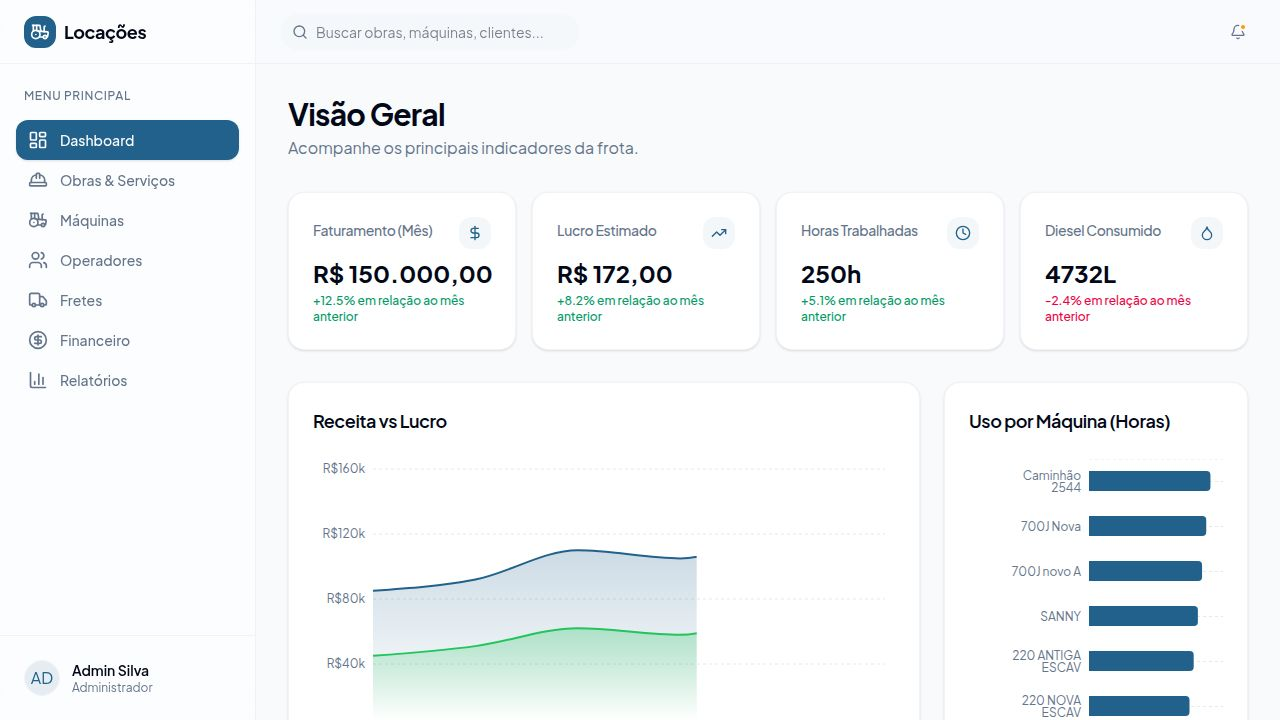
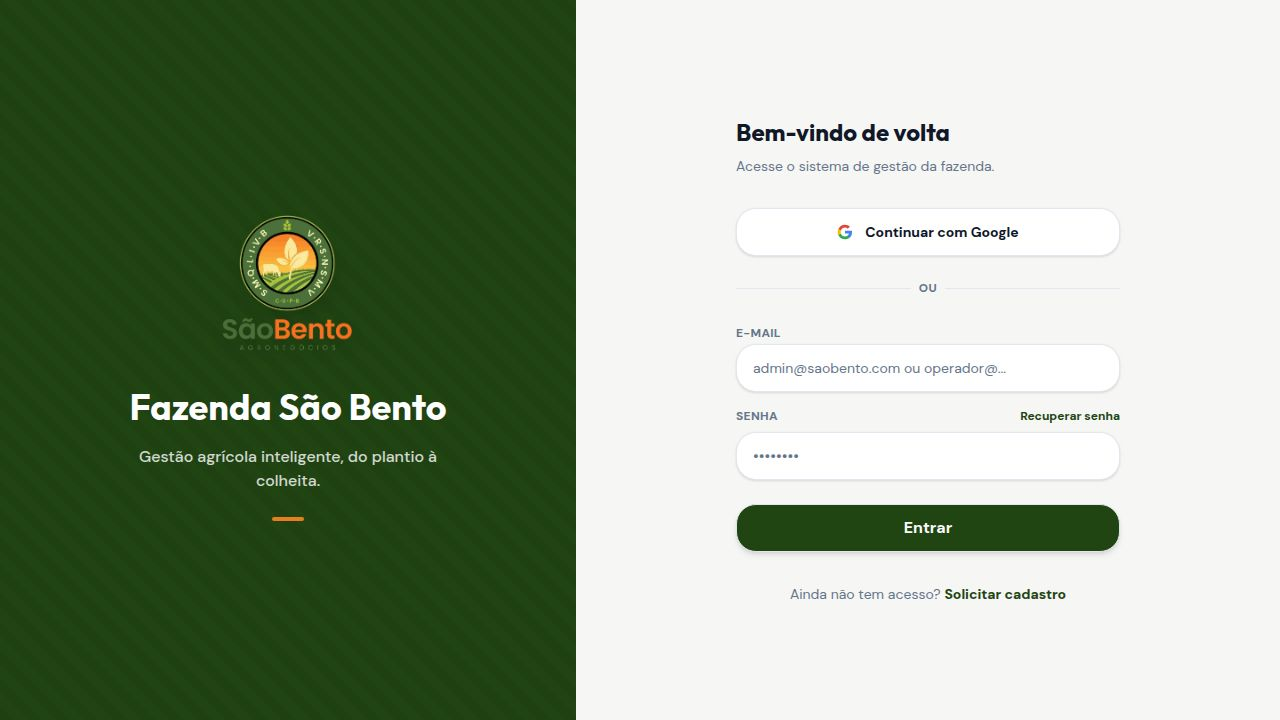
Update application layout and navigation to match new visual identity
Remove the profile page and refactor the sidebar and mobile navigation menus to adhere to the new design system, including updated icons, structure, and styling.

Replit-Commit-Author: Agent
Replit-Commit-Session-Id: a1e8617d-707e-435c-a812-cf1572383044
Replit-Commit-Checkpoint-Type: full_checkpoint
Replit-Commit-Event-Id: d5b62594-970b-4346-b0ed-bee79c32bd19
Replit-Commit-Screenshot-Url: https://storage.googleapis.com/screenshot-production-us-central1/9e8b72b2-3de3-485b-a8b9-97ff657279ff/a1e8617d-707e-435c-a812-cf1572383044/fkUxBok
Replit-Helium-Checkpoint-Created: true

diff --git a/client/src/components/layout/AppLayout.tsx b/client/src/components/layout/AppLayout.tsx
@@ -2,8 +2,8 @@ import { ReactNode, useState, useEffect } from "react";
 import { Link, useLocation } from "wouter";
 import { motion } from "framer-motion";
 import {
-  LayoutDashboard, Users, Tractor, Wheat, Package,
-  Truck, Fuel, Settings, Menu, Bell, ShieldAlert, DollarSign, FileText, Pickaxe
+  Home, Users, Tractor,
+  Truck, Menu, Bell, Droplet, Package, Wheat, LogOut
 } from "lucide-react";
 import { Avatar, AvatarFallback } from "@/components/ui/avatar";
 import { Button } from "@/components/ui/button";
@@ -14,16 +14,17 @@ interface AppLayoutProps {
 }
 
 const mainNavItems = [
-  { name: "Início", href: "/", icon: LayoutDashboard },
-  { name: "Obras & Serv", href: "/servicos", icon: Pickaxe },
+  { name: "Dashboard", href: "/", icon: Home },
+  { name: "Colheita", href: "/servicos", icon: Wheat },
+  { name: "Transporte", href: "/fretes", icon: Truck },
   { name: "Máquinas", href: "/maquinas", icon: Tractor },
-  { name: "Fretes", href: "/fretes", icon: Truck },
+  { name: "Abastecimento", href: "/financeiro", icon: Droplet },
+  { name: "Estoque", href: "/relatorios", icon: Package },
 ];
 
 const secondaryNavItems = [
-  { name: "Operadores", href: "/operadores", icon: Users },
-  { name: "Financeiro", href: "/financeiro", icon: DollarSign },
-  { name: "Relatórios", href: "/relatorios", icon: FileText },
+  { name: "Caminhões", href: "/caminhoes", icon: Truck },
+  { name: "Usuários", href: "/operadores", icon: Users },
 ];
 
 export default function AppLayout({ children }: AppLayoutProps) {
@@ -55,30 +56,34 @@ export default function AppLayout({ children }: AppLayoutProps) {
   };
 
   return (
-    <div className="flex h-screen w-full bg-background overflow-hidden font-sans">
+    <div className="flex h-screen w-full bg-[#f8f9fa] overflow-hidden font-sans">
       {/* Sidebar (Desktop) */}
-      <aside className="hidden sm:flex w-64 flex-col border-r border-border bg-card">
-        <div className="h-16 flex items-center px-6 border-b border-border">
+      <aside className="hidden sm:flex w-64 flex-col bg-[#1b431e] text-white">
+        <div className="h-20 flex items-center px-6 pt-4">
           <div className="flex items-center gap-3">
-            <img src="/logo.png" alt="Logo Fazenda São Bento" className="w-8 h-8 object-contain" />
-            <span className="font-bold text-lg font-display tracking-tight text-foreground">São Bento</span>
+            <img src="/logo.png" alt="Logo Fazenda São Bento" className="w-10 h-10 object-contain filter drop-shadow-md brightness-0 invert" />
+            <div className="flex flex-col">
+              <span className="font-bold text-lg leading-tight font-display tracking-tight text-white">Fazenda</span>
+              <span className="font-bold text-lg leading-tight font-display tracking-tight text-white">São Bento</span>
+              <span className="text-[10px] tracking-widest text-[#d5a05b] uppercase mt-0.5">Agronegócios</span>
+            </div>
           </div>
         </div>
 
-        <div className="flex-1 overflow-y-auto py-6 px-4">
-          <div className="space-y-1 mb-8">
-            <p className="px-3 text-xs font-bold text-muted-foreground uppercase tracking-wide mb-3">Operação</p>
+        <div className="flex-1 overflow-y-auto py-8 px-4">
+          <div className="space-y-1 mb-10">
+            <p className="px-4 text-[10px] font-bold text-white/50 uppercase tracking-widest mb-4">Módulos</p>
             {mainNavItems.map((item) => {
               const isActive = location === item.href;
               return (
                 <Link key={item.name} href={item.href}>
-                  <div className={`flex items-center gap-3 px-3 py-2.5 rounded-xl transition-all duration-200 cursor-pointer ${
+                  <div className={`flex items-center gap-4 px-4 py-3 rounded-lg transition-all duration-200 cursor-pointer ${
                     isActive 
-                      ? "bg-primary text-primary-foreground font-medium shadow-sm" 
-                      : "text-muted-foreground hover:bg-muted hover:text-foreground"
+                      ? "bg-[#255529] text-white font-medium shadow-sm" 
+                      : "text-white/70 hover:bg-[#255529]/50 hover:text-white"
                   }`}>
-                    <item.icon className={`w-5 h-5 ${isActive ? "text-primary-foreground" : ""}`} />
-                    <span className="text-sm">{item.name}</span>
+                    <item.icon className={`w-5 h-5 ${isActive ? "text-[#d5a05b]" : ""}`} strokeWidth={isActive ? 2.5 : 2} />
+                    <span className="text-sm font-medium">{item.name}</span>
                   </div>
                 </Link>
               );
@@ -87,18 +92,18 @@ export default function AppLayout({ children }: AppLayoutProps) {
 
           {userRole === 'admin' && (
             <div className="space-y-1">
-              <p className="px-3 text-xs font-bold text-muted-foreground uppercase tracking-wide mb-3">Gestão</p>
+              <p className="px-4 text-[10px] font-bold text-white/50 uppercase tracking-widest mb-4">Administração</p>
               {secondaryNavItems.map((item) => {
                 const isActive = location === item.href;
                 return (
                   <Link key={item.name} href={item.href}>
-                    <div className={`flex items-center gap-3 px-3 py-2.5 rounded-xl transition-all duration-200 cursor-pointer ${
+                    <div className={`flex items-center gap-4 px-4 py-3 rounded-lg transition-all duration-200 cursor-pointer ${
                       isActive 
-                        ? "bg-primary text-primary-foreground font-medium shadow-sm" 
-                        : "text-muted-foreground hover:bg-muted hover:text-foreground"
+                        ? "bg-[#255529] text-white font-medium shadow-sm" 
+                        : "text-white/70 hover:bg-[#255529]/50 hover:text-white"
                     }`}>
-                      <item.icon className={`w-5 h-5 ${isActive ? "text-primary-foreground" : ""}`} />
-                      <span className="text-sm">{item.name}</span>
+                      <item.icon className={`w-5 h-5 ${isActive ? "text-[#d5a05b]" : ""}`} strokeWidth={isActive ? 2.5 : 2} />
+                      <span className="text-sm font-medium">{item.name}</span>
                     </div>
                   </Link>
                 );
@@ -107,44 +112,47 @@ export default function AppLayout({ children }: AppLayoutProps) {
           )}
         </div>
 
-        <div className="p-4 border-t border-border">
-          <Link href="/perfil">
-            <div className={`flex items-center gap-3 px-3 py-3 rounded-xl transition-colors cursor-pointer ${location === '/perfil' ? 'bg-muted' : 'hover:bg-muted'}`}>
-              <Avatar className="w-10 h-10 border border-border">
-                <AvatarFallback className="bg-primary/10 text-primary font-bold">
-                  {userRole === 'admin' ? 'AS' : 'OP'}
-                </AvatarFallback>
-              </Avatar>
-              <div className="flex flex-col min-w-0">
-                <span className="text-sm font-bold text-foreground truncate">
-                  {userRole === 'admin' ? 'Admin Silva' : 'Operador'}
-                </span>
-                <span className="text-xs text-muted-foreground truncate flex items-center gap-1 mt-0.5">
-                  <ShieldAlert className="w-3 h-3 text-primary" />
-                  {userRole === 'admin' ? 'Administrador' : 'Operador'}
-                </span>
-              </div>
+        <div className="p-6">
+          <div className="flex items-center gap-3 mb-6">
+            <div className="w-10 h-10 rounded-full bg-[#255529] border border-[#d5a05b]/30 flex items-center justify-center text-white font-bold text-sm">
+              {userRole === 'admin' ? 'U' : 'O'}
             </div>
-          </Link>
+            <div className="flex flex-col min-w-0">
+              <span className="text-sm font-bold text-white truncate">
+                Usuário Google
+              </span>
+              <span className="text-xs text-[#d5a05b] truncate mt-0.5 font-medium">
+                {userRole === 'admin' ? 'Admin' : 'Operador'}
+              </span>
+            </div>
+          </div>
+          
+          <button onClick={handleLogout} className="flex items-center gap-2 text-white/60 hover:text-white transition-colors text-sm font-medium w-full px-2">
+            <LogOut className="w-4 h-4" />
+            Sair do sistema
+          </button>
         </div>
       </aside>
 
       {/* Main Content */}
       <div className="flex-1 flex flex-col min-w-0 relative">
-        <header className="h-16 flex items-center justify-between px-4 sm:px-6 lg:px-8 border-b border-border bg-card/80 backdrop-blur-md z-10 sticky top-0">
-          <div className="flex items-center gap-3">
-            <img src="/logo.png" alt="Logo Fazenda São Bento" className="w-8 h-8 object-contain sm:hidden" />
-            <h1 className="font-bold text-lg font-display tracking-tight text-foreground sm:hidden">São Bento</h1>
+        <header className="h-16 flex items-center justify-between px-4 sm:px-8 bg-[#f8f9fa] z-10 sticky top-0 sm:border-b sm:border-border/50">
+          <div className="flex items-center gap-3 sm:hidden">
+            <img src="/logo.png" alt="Logo Fazenda São Bento" className="w-8 h-8 object-contain" />
           </div>
+          
+          <div className="hidden sm:flex items-center text-muted-foreground hover:text-foreground cursor-pointer transition-colors">
+            <Menu className="w-5 h-5" />
+          </div>
+          
           <div className="flex items-center gap-3 ml-auto">
-            <Button variant="ghost" size="icon" className="relative text-muted-foreground hover:text-foreground hover:bg-muted rounded-full w-10 h-10">
-              <Bell className="w-5 h-5" />
-              <span className="absolute top-2.5 right-2.5 w-2 h-2 bg-secondary rounded-full border-2 border-card"></span>
-            </Button>
+            <div className="w-8 h-8 rounded-full bg-primary/10 sm:hidden flex items-center justify-center text-primary font-bold text-xs">
+               {userRole === 'admin' ? 'U' : 'O'}
+            </div>
           </div>
         </header>
 
-        <main className="flex-1 overflow-y-auto p-4 sm:p-6 lg:p-8 pb-24 sm:pb-8">
+        <main className="flex-1 overflow-y-auto p-4 sm:p-8 pb-24 sm:pb-8">
           <motion.div
             initial={{ opacity: 0, y: 18 }}
             animate={{ opacity: 1, y: 0 }}

diff --git a/client/src/components/layout/MobileBottomNav.tsx b/client/src/components/layout/MobileBottomNav.tsx
@@ -1,20 +1,21 @@
 import { Link, useLocation } from "wouter";
 import { motion } from "framer-motion";
-import { Truck, Tractor, LayoutDashboard, Menu, Users, Pickaxe, DollarSign, FileText } from "lucide-react";
+import { Truck, Tractor, Home, Users, Droplet, Package, Wheat, MoreHorizontal, LogOut } from "lucide-react";
 import { useState, useEffect } from "react";
 import { Sheet, SheetContent, SheetHeader, SheetTitle } from "@/components/ui/sheet";
 
 const mainNavItems = [
-  { name: "Início", href: "/", icon: LayoutDashboard },
-  { name: "Obras & Serv", href: "/servicos", icon: Pickaxe },
+  { name: "Início", href: "/", icon: Home },
+  { name: "Colheita", href: "/servicos", icon: Wheat },
+  { name: "Transporte", href: "/fretes", icon: Truck },
   { name: "Máquinas", href: "/maquinas", icon: Tractor },
-  { name: "Fretes", href: "/fretes", icon: Truck },
 ];
 
 const secondaryNavItems = [
-  { name: "Operadores", href: "/operadores", icon: Users },
-  { name: "Financeiro", href: "/financeiro", icon: DollarSign },
-  { name: "Relatórios", href: "/relatorios", icon: FileText },
+  { name: "Abastecimento", href: "/financeiro", icon: Droplet },
+  { name: "Estoque", href: "/relatorios", icon: Package },
+  { name: "Caminhões", href: "/caminhoes", icon: Truck },
+  { name: "Usuários", href: "/operadores", icon: Users },
 ];
 
 export default function MobileBottomNav() {
@@ -28,21 +29,16 @@ export default function MobileBottomNav() {
 
   return (
     <>
-      <div className="sm:hidden fixed bottom-0 left-0 right-0 h-[72px] pb-safe bg-card border-t border-border z-50 flex items-center justify-around px-2 shadow-[0_-4px_24px_rgba(0,0,0,0.04)]">
+      <div className="sm:hidden fixed bottom-0 left-0 right-0 h-[72px] pb-safe bg-white border-t border-border z-50 flex items-center justify-around px-2">
         {mainNavItems.map((item) => {
           const isActive = location === item.href;
           return (
             <Link key={item.name} href={item.href}>
-              <div className="flex flex-col items-center justify-center w-16 h-full cursor-pointer relative">
-                {isActive && (
-                  <motion.div 
-                    layoutId="activeTab"
-                    className="absolute top-0 w-8 h-1 bg-primary rounded-b-full"
-                    transition={{ type: "spring", stiffness: 400, damping: 30 }}
-                  />
-                )}
-                <item.icon className={`w-6 h-6 mb-1 transition-colors ${isActive ? "text-primary" : "text-muted-foreground"}`} />
-                <span className={`text-[10px] font-medium whitespace-nowrap overflow-hidden text-ellipsis max-w-full px-1 ${isActive ? "text-primary font-bold" : "text-muted-foreground"}`}>
+              <div className="flex flex-col items-center justify-center w-16 h-full cursor-pointer relative pt-2">
+                <div className={`w-10 h-10 rounded-full flex items-center justify-center mb-1 transition-colors ${isActive ? "bg-primary/10 text-[#1b431e]" : "text-muted-foreground"}`}>
+                  <item.icon className="w-5 h-5" strokeWidth={isActive ? 2.5 : 2} />
+                </div>
+                <span className={`text-[10px] font-medium whitespace-nowrap overflow-hidden text-ellipsis max-w-full px-1 ${isActive ? "text-[#1b431e] font-bold" : "text-muted-foreground"}`}>
                   {item.name}
                 </span>
               </div>
@@ -51,11 +47,13 @@ export default function MobileBottomNav() {
         })}
         
         <div 
-          className="flex flex-col items-center justify-center w-16 h-full cursor-pointer"
+          className="flex flex-col items-center justify-center w-16 h-full cursor-pointer pt-2"
           onClick={() => setIsMenuOpen(true)}
         >
-          <Menu className={`w-6 h-6 mb-1 transition-colors ${isMenuOpen ? "text-primary" : "text-muted-foreground"}`} />
-          <span className={`text-[10px] font-medium ${isMenuOpen ? "text-primary font-bold" : "text-muted-foreground"}`}>
+          <div className={`w-10 h-10 rounded-full flex items-center justify-center mb-1 transition-colors ${isMenuOpen ? "bg-primary/10 text-[#1b431e]" : "text-muted-foreground"}`}>
+            <MoreHorizontal className="w-5 h-5" strokeWidth={isMenuOpen ? 2.5 : 2} />
+          </div>
+          <span className={`text-[10px] font-medium ${isMenuOpen ? "text-[#1b431e] font-bold" : "text-muted-foreground"}`}>
             Mais
           </span>
         </div>
@@ -65,7 +63,7 @@ export default function MobileBottomNav() {
         <SheetContent side="bottom" className="rounded-t-3xl px-4 pb-8 pt-4 max-h-[92vh] sm:max-w-md mx-auto">
           <div className="w-10 h-1 bg-border rounded-full mx-auto mb-6" />
           <SheetHeader className="text-left mb-6">
-            <SheetTitle className="text-xl font-display font-bold">Mais opções</SheetTitle>
+            <SheetTitle className="text-xl font-display font-bold text-[#1b431e]">Mais opções</SheetTitle>
           </SheetHeader>
           
           {userRole === 'admin' && (
@@ -76,11 +74,11 @@ export default function MobileBottomNav() {
                   <Link key={item.name} href={item.href} onClick={() => setIsMenuOpen(false)}>
                     <div className="flex flex-col items-center gap-2 group cursor-pointer">
                       <div className={`w-14 h-14 rounded-2xl flex items-center justify-center transition-colors ${
-                        isActive ? 'bg-primary/10 text-primary border border-primary/20' : 'bg-muted text-muted-foreground border border-transparent group-hover:bg-muted/80'
+                        isActive ? 'bg-[#1b431e]/10 text-[#1b431e] border border-[#1b431e]/20' : 'bg-muted text-muted-foreground border border-transparent group-hover:bg-muted/80'
                       }`}>
-                        <item.icon className="w-6 h-6" />
+                        <item.icon className="w-6 h-6" strokeWidth={isActive ? 2.5 : 2} />
                       </div>
-                      <span className={`text-xs font-medium text-center ${isActive ? 'text-primary font-bold' : 'text-foreground'}`}>
+                      <span className={`text-xs font-medium text-center ${isActive ? 'text-[#1b431e] font-bold' : 'text-foreground'}`}>
                         {item.name}
                       </span>
                     </div>
@@ -91,17 +89,25 @@ export default function MobileBottomNav() {
           )}
           
           <div className="mt-8 pt-6 border-t border-border">
-            <Link href="/perfil" onClick={() => setIsMenuOpen(false)}>
-              <div className="flex items-center gap-4 bg-muted/50 p-4 rounded-2xl">
-                <div className="w-10 h-10 rounded-full bg-primary/10 text-primary flex items-center justify-center font-bold font-display">
-                  {userRole === 'admin' ? 'AS' : 'OP'}
+            <div 
+              className="flex items-center justify-between bg-muted/50 p-4 rounded-2xl cursor-pointer"
+              onClick={() => {
+                localStorage.removeItem("isAuthenticated");
+                localStorage.removeItem("userRole");
+                window.location.href = '/login';
+              }}
+            >
+              <div className="flex items-center gap-4">
+                <div className="w-10 h-10 rounded-full bg-[#1b431e]/10 text-[#1b431e] flex items-center justify-center font-bold font-display">
+                  {userRole === 'admin' ? 'U' : 'O'}
                 </div>
                 <div>
-                  <p className="font-bold text-sm text-foreground">{userRole === 'admin' ? 'Admin Silva' : 'Operador'}</p>
-                  <p className="text-xs text-muted-foreground">Ver perfil</p>
+                  <p className="font-bold text-sm text-foreground">Usuário Google</p>
+                  <p className="text-xs text-muted-foreground">{userRole === 'admin' ? 'Admin' : 'Operador'}</p>
                 </div>
               </div>
-            </Link>
+              <LogOut className="w-5 h-5 text-muted-foreground" />
+            </div>
           </div>
         </SheetContent>
       </Sheet>

diff --git a/client/src/App.tsx b/client/src/App.tsx
@@ -11,7 +11,6 @@ import Operators from "@/pages/Operators";
 import Finance from "@/pages/Finance";
 import Freights from "@/pages/Freights";
 import Reports from "@/pages/Reports";
-import Profile from "@/pages/Profile";
 import Auth from "@/pages/Auth";
 import NotFound from "@/pages/not-found";
 import { useEffect } from "react";
@@ -49,13 +48,13 @@ function Router() {
         <Route path="/servicos" component={() => <ProtectedRoute component={Services} />} />
         <Route path="/maquinas" component={() => <ProtectedRoute component={Machines} />} />
         <Route path="/fretes" component={() => <ProtectedRoute component={Freights} />} />
+        <Route path="/caminhoes" component={() => <ProtectedRoute component={Freights} />} />
         
         {/* Gestão - Apenas Admin */}
         <Route path="/operadores" component={() => <ProtectedRoute component={Operators} allowedRoles={['admin']} />} />
         <Route path="/financeiro" component={() => <ProtectedRoute component={Finance} allowedRoles={['admin']} />} />
         <Route path="/relatorios" component={() => <ProtectedRoute component={Reports} allowedRoles={['admin']} />} />
         
-        <Route path="/perfil" component={() => <ProtectedRoute component={Profile} />} />
         <Route component={NotFound} />
       </Switch>
     </AppLayout>
